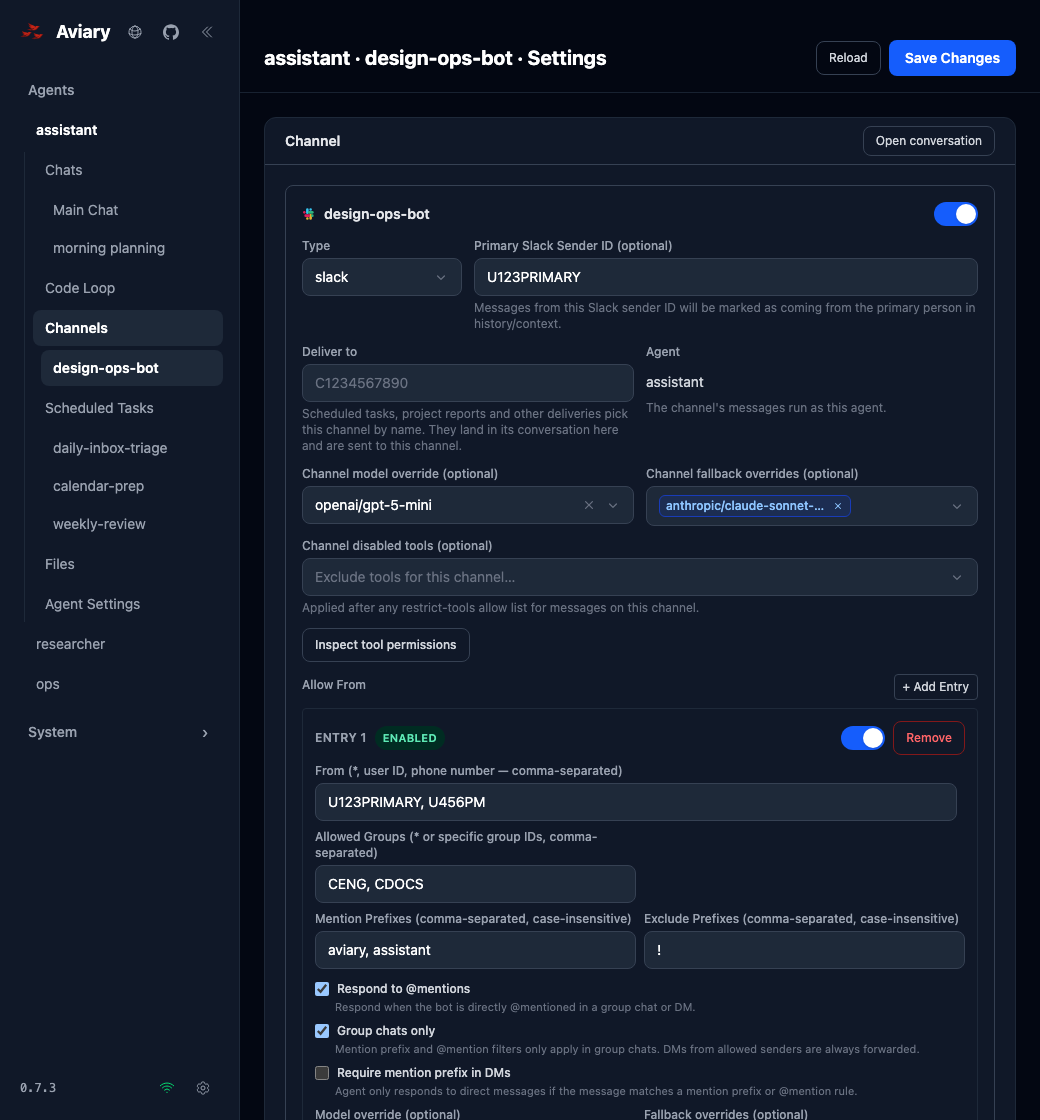
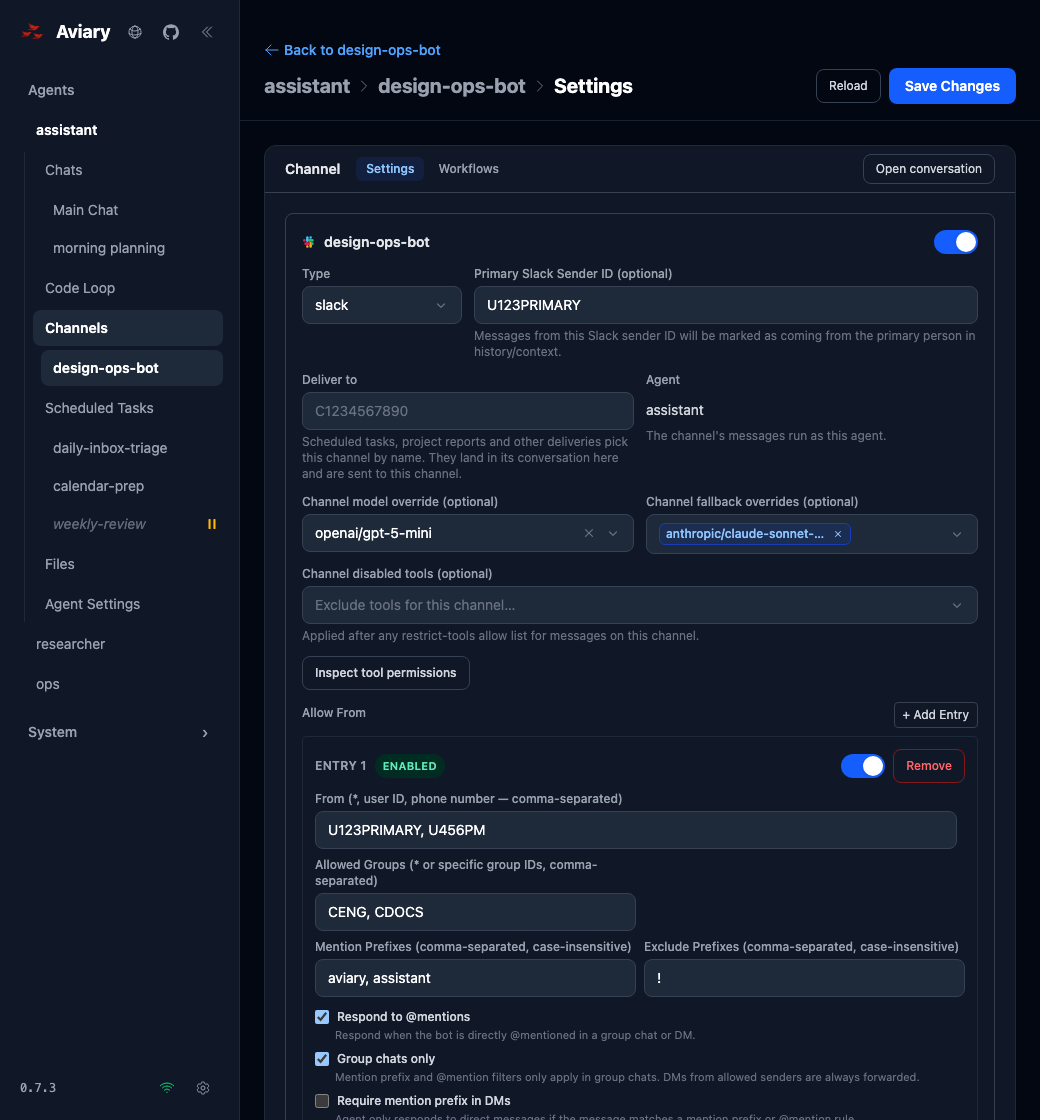
Checkpoint issue #1078 progress [skip ci]

diff --git a/web/src/components/ui/PageBreadcrumb.vue b/web/src/components/ui/PageBreadcrumb.vue
@@ -9,9 +9,11 @@
 			<span v-if="title" class="truncate">Back to {{ back.label }}</span>
 		</router-link>
 		<div :class="title ? 'flex flex-wrap items-center justify-between gap-3' : 'min-w-0 flex-1'">
-		<div :class="title ? 'flex min-w-0 items-center gap-3' : 'min-w-0'">
+		<!-- As a title the trail grows into the row's free space, so the crumbs'
+			percentage caps measure the row rather than the crumbs themselves. -->
+		<div :class="title ? 'flex min-w-0 flex-[1_1_auto] items-center gap-3' : 'min-w-0'">
 			<slot name="icon" />
-			<nav v-if="crumbs.length > 1" aria-label="Breadcrumb" :data-testid="`${testid}-breadcrumb`" class="min-w-0">
+			<nav v-if="crumbs.length > 1" aria-label="Breadcrumb" :data-testid="`${testid}-breadcrumb`" class="min-w-0 flex-1">
 				<!-- Middle crumbs give up their width first, then the outer ones. -->
 				<ol class="flex min-w-0 items-center gap-1.5 overflow-hidden"
 					:class="title ? 'text-xl font-bold text-gray-900 dark:text-white' : 'text-sm text-gray-900 dark:text-white'">
